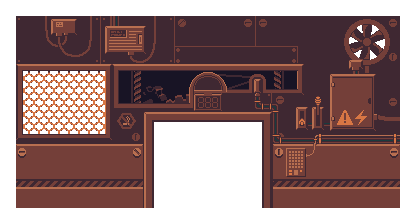
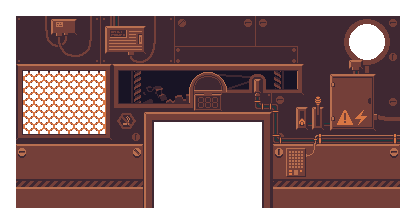
Background fan in dept. 2 now spins + stuff
+ Added a cooldown for cloud storm enemy
+ Espresso now lasts for 20 floors (prev. 10)

Changed region(s): [[0.8438, 0.0938, 0.9375, 0.2812]]

diff --git a/changes.md b/changes.md
@@ -1,5 +1,11 @@
 # Bugscraper changelog
-## 0.6
+## 0.7
+- **Change**: Added a cooldown for cloud storm enemy (temporary name) <<<<<<<<<<<<<<<<<<<fixme>>>>>>>>>>>>>>>>>>>
+- **Change**: Background fan in dept. 2 now spins 
+- **Change**: Espresso now lasts for 20 floors (prev. 10)
+
+## 0.6 (*2025-03-22*)
+
 First Steam beta release (after a year of development, never too late..!) If you had the game before, I'm sorry to say that this release will reset your progress (skins & upgrades). I'll work on a more permanent solution in the future but right now this the best way I found to avoid incompatibility bugs. Be expected for this to happen often in a game still in beta. :P
 
 - **Added**: Option to replay the tutorial in the settings  
@@ -14,3 +20,6 @@ First Steam beta release (after a year of development, never too late..!) If you
 - **Fix**: Quick restarting no longer has that small “intro”
 - **Fix**: Drill bees (temporary name) now give some fury when exploding
 - **Fix**: Ground floor music no longer plays when reviving a player 
+
+## Older versions
+I didn't write changelogs for older versions, but you can probably access these versions at [yolwoocle.itch.io/bugscraper](https://yolwoocle.itch.io/bugscraper) and look for yourself.
